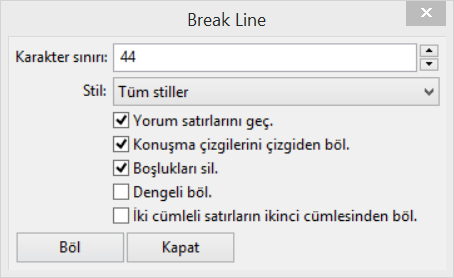
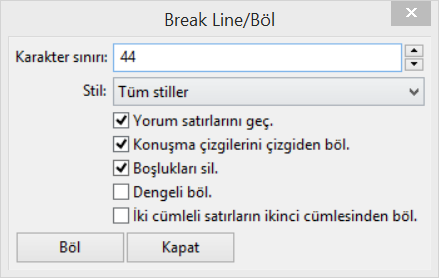
1.2
Line Breaker Checker is merged with Break Line and also addded it the
remove break mod on Strip Line

diff --git a/README.md b/README.md
@@ -15,7 +15,6 @@
  * [**Copy Paste Line**](#copy-paste-line)
  * [**Italic Maker**](#italic-maker)
  * [**K Char**](#k-char)
- * [**Line Breaker Checker**](#line-breaker-checker)
  * [**Manual Hardsub Timer**](#manual-hardsub-timer)
  * [**Select Lines**](#select-lines)
  * [**Shaper**](#shaper)
@@ -135,14 +134,25 @@ Bazı işaretleri onun karşılığı olan şeye dönüştürürsünüz. Satıra
 **Bu modlardan aynı anda sadece birini kullanın.**
 
 ### [Break Line](automation/autoload/mag.break_line.lua)
-Satır bölme yapılmamış satırları böler.
-* **Karakter sınırı:** Varsayılan değeri 44'tir. Varsayılan değer üzerinden konuşacak olursak 44 ve üstü karakterde devreye girecektir. Bu değer sadece sembolüktür. **\\N** karakterinin koyulması için yapılan hesaplamaya bir etkisi yoktur. **\\N** koyulacak satırları tespit etmeye etkisi vardır. En az **35**, en fazla **50** değeri girilebilir.
-* **Stil:** Hangi stile göre işlem yapmasını istediğinizi seçin. Sadece kullanılan stiller listelenir. Stil isimlerinin başındaki ilk sayı yorum satırı yapılmamış iken ikinci sayı yapılmış satırların sayısıdır.
-* **Yorum satırlarını geç:** Yorum satırı yapılmış satırlara işlem yapmaz.
-* **Konuşma çizgilerinden böl:** Karakter sınırının altında veya üstünde olan ikili veya tekli konuşma satırlarını konuşma çizgisinden böler.
-* **Boşlukları sil:** Karakter sınırı alanından bağımsız olarak satır bölme karakterinin yanındaki boşluk alanı siler.
-* **Dengeli böl:** Üst ve alt satırın en az farka sahip olduğu yerden böler.
-* **İki cümleli satırların ikinci cümlesinden böl:** Karakter sınırına girilen değerin yarısıyle onun altında kalan karakter sayısına sahip iki cümleli satırların ikinci cümlesinden böler.
+* **Böl:** Satır bölme yapılmamış satırları böler.
+  * **Karakter sınırı:** Varsayılan değeri 44'tir. Varsayılan değer üzerinden konuşacak olursak 44 ve üstü karakterde devreye girecektir. Bu değer sadece sembolüktür. **\\N** karakterinin koyulması için yapılan hesaplamaya bir etkisi yoktur. **\\N** koyulacak satırları tespit etmeye etkisi vardır. En az **35**, en fazla **50** değeri girilebilir.
+  * **Stil:** Hangi stile göre işlem yapmasını istediğinizi seçin. Sadece kullanılan stiller listelenir. Stil isimlerinin başındaki ilk sayı yorum satırı yapılmamış iken ikinci sayı yapılmış satırların sayısıdır.
+  * **Yorum satırlarını geç:** Yorum satırı yapılmış satırlara işlem yapmaz.
+  * **Konuşma çizgilerinden böl:** Karakter sınırının altında veya üstünde olan ikili veya tekli konuşma satırlarını konuşma çizgisinden böler.
+  * **Boşlukları sil:** Karakter sınırı alanından bağımsız olarak satır bölme karakterinin yanındaki boşluk alanı siler.
+  * **Dengeli böl:** Üst ve alt satırın en az farka sahip olduğu yerden böler.
+  * **İki cümleli satırların ikinci cümlesinden böl:** Karakter sınırına girilen değerin yarısıyle onun altında kalan karakter sayısına sahip iki cümleli satırların ikinci cümlesinden böler.
+* **Kontrol et:** Karakter sınırını aşan ve satır bölme yapılmamış satırlara **Beni böl!**, karakter sınırı aşan ama satır bölme yapıldığı halde karakter sınırını aşan satırlara da **Beni düzgün böl!** şeklinde `Effect` kutucuğuna not düşer.
+  * **Karakter sınırı:** Varsayılan değeri 44'tir. Varsayılan değer üzerinden konuşacak olursak 44 ve üstü karakterde devreye girecektir.
+  * **Stil:** Hangi stile göre işlem yapmasını istediğinizi seçin. Sadece kullanılan stiller listelenir. Stil isimlerinin başındaki ilk sayı yorum satırı yapılmamış iken ikinci sayı yapılmış satırların sayısıdır.
+  * **Yorum satırlarını geç:** Yorum satırı yapılmış satırları işleme almaz.
+* **Kaldır:** Satır bölme karakterlerini kaldırır. Yanında boşluk varsa direkt silerken yoksa boşlukla yer değiştirir.
+  * **Karakter sınırı:** Varsayılan değeri 44'tir. Varsayılan değer üzerinden konuşacak olursak 44 ve üstü karakterde devreye girecektir.
+  * **Stil:** Hangi stile göre işlem yapmasını istediğinizi seçin. Sadece kullanılan stiller listelenir. Stil isimlerinin başındaki ilk sayı yorum satırı yapılmamış iken ikinci sayı yapılmış satırların sayısıdır.
+  * **Yorum satırlarını geç:** Yorum satırı yapılmış satırları işleme almaz.
+
+###### Notlar
+Herhangi bir arayüzde yaptığınız ayar diğer bir arayüzde de bulunuyorsa son girdiğiniz değeri hatırlar.
 
 ### [Copy Dialogue](automation/autoload/mag.copy_dialogue.lua)
 Alt yazıdaki metinleri panoya veya oluşturduğu metin dosyasına kopyalar.
@@ -155,13 +165,6 @@ Seçili satırların başına italik yapma, sonuna italik yapmama etiketi koyar.
 
 ### [K Char](automation/autoload/mag.k_char.lua)
 Metindeki boşluk karakteri hariç her karakterinin başına **{\k}** ekler.
-
-### [Line Breaker Checker](automation/autoload/mag.line_breaker_checker.lua)
-Karakter sınırını aşan ve satır bölme yapılmamış satırlara **Beni böl!**, karakter sınırı aşan ama satır bölme yapıldığı halde karakter sınırını aşan satırlara da **Beni düzgün böl!** şeklinde `Effect` kutucuğuna not düşer.
-
-* **Karakter sınırı:** Varsayılan değeri 44'tir. Varsayılan değer üzerinden konuşacak olursak 44 ve üstü karakterde devreye girecektir.
-* **Stil:** Hangi stile göre işlem yapmasını istediğinizi seçin. Sadece kullanılan stiller listelenir. Stil isimlerinin başındaki ilk sayı yorum satırı yapılmamış iken ikinci sayı yapılmış satırların sayısıdır.
-* **Yorum satırlarını geç:** Yorum satırı yapılmış satırları işleme almaz.
 
 ### [Manual Hardsub Timer](automation/autoload/mag.manual_hardsub_timer.lua)
 Manuel olarak hardsub videoya zamanlama yapmanızı sağlar. Herhangi bir hardsub satırın önce başladığı ve sonra da bittiği karede lua dosyasını çalıştırın. Geçerli satırın bir altına o karelerin süreye dönüşmüş haliyle yeni bir satır oluşturacaktır.
